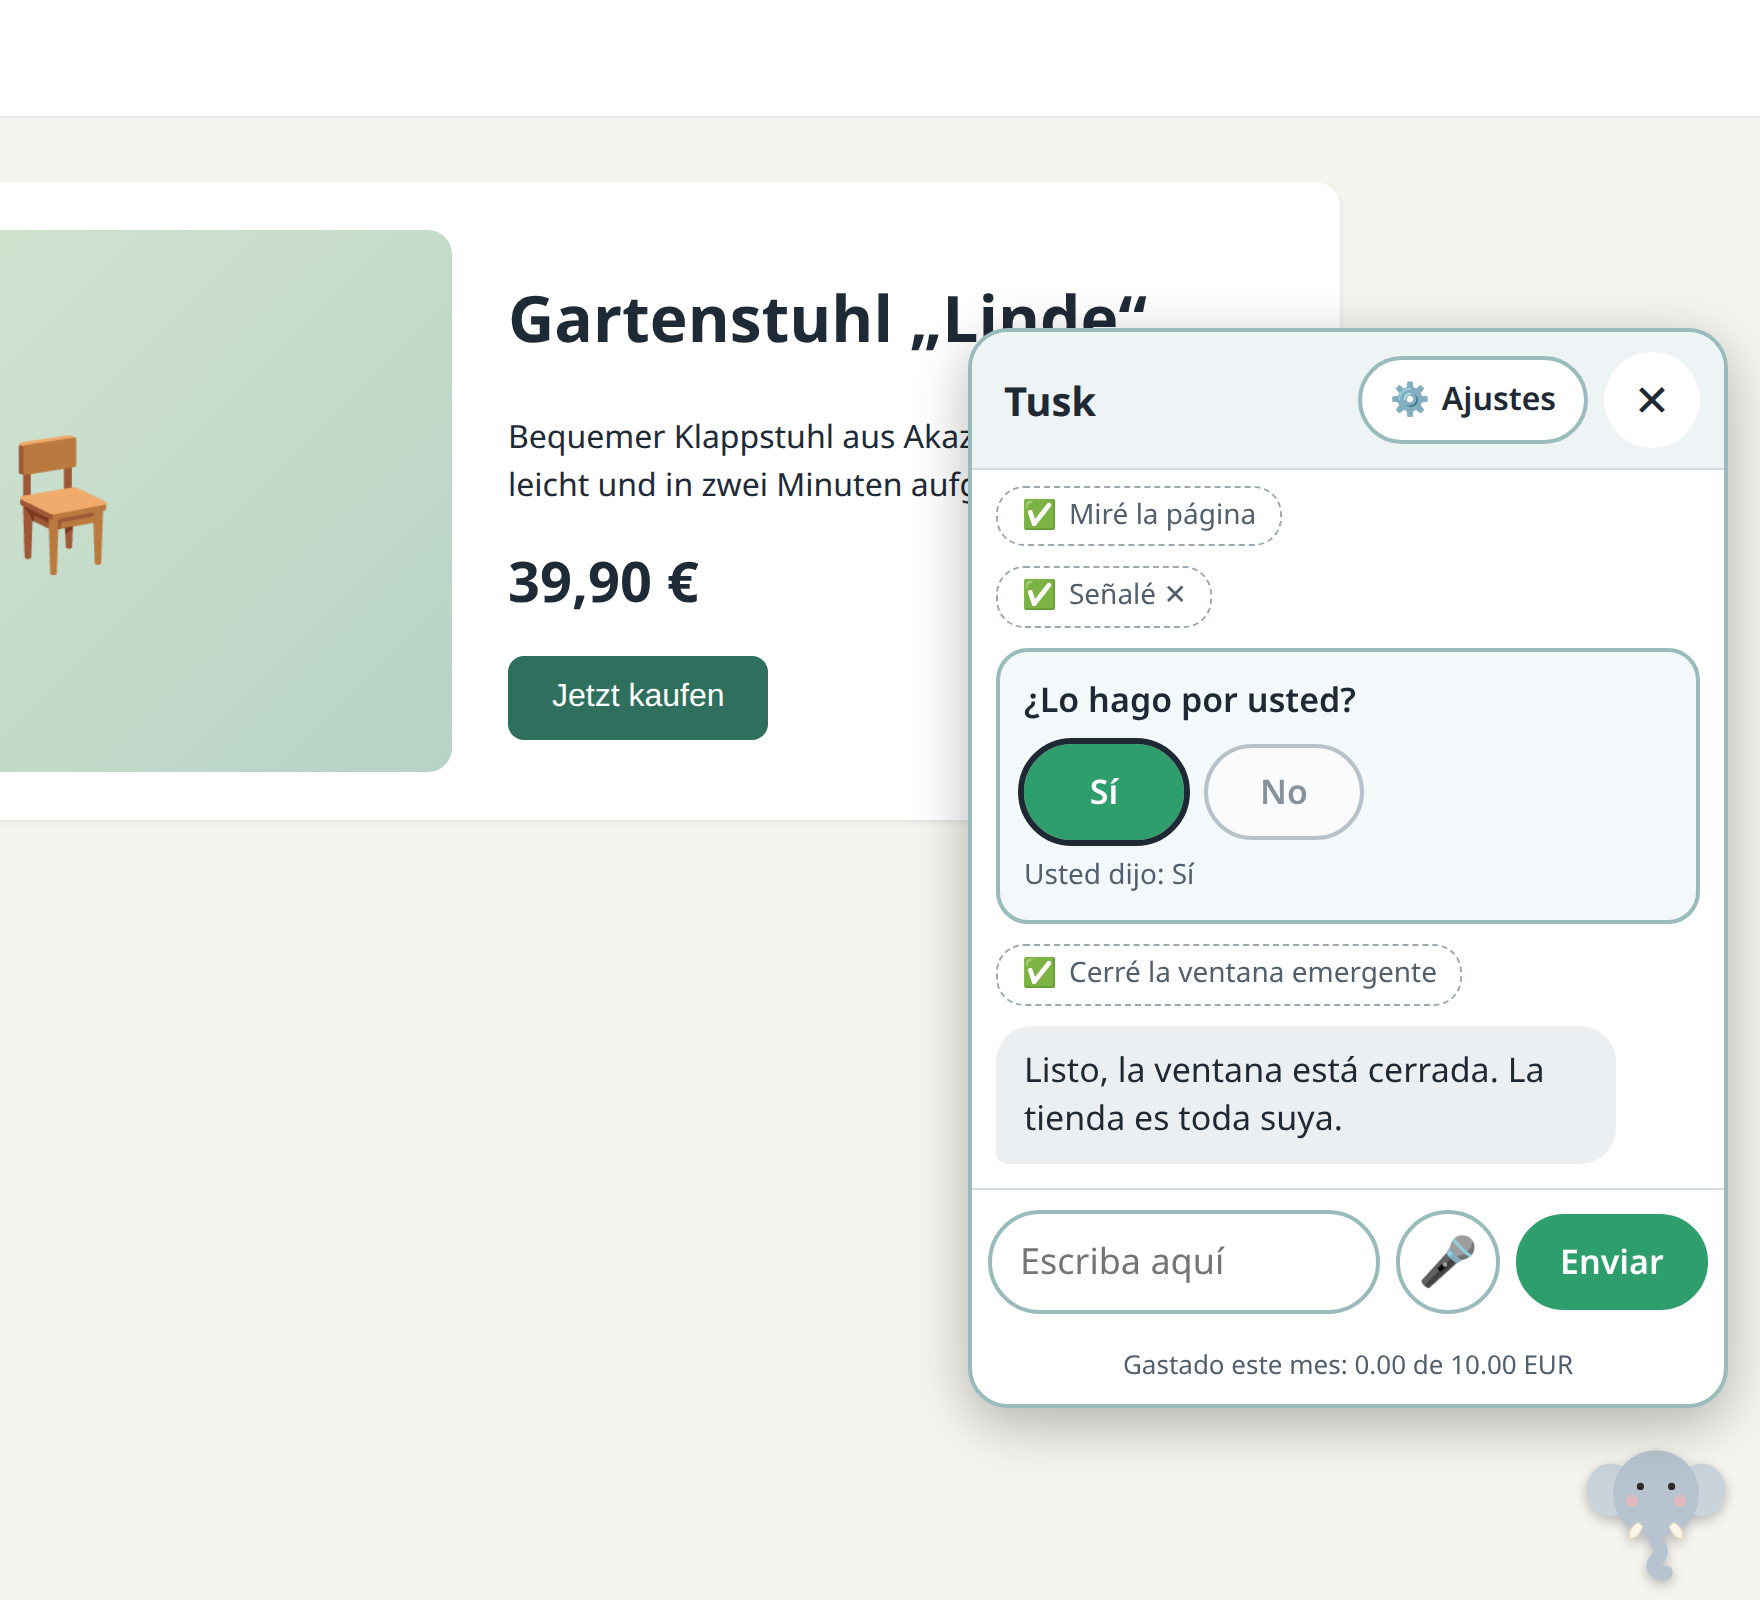
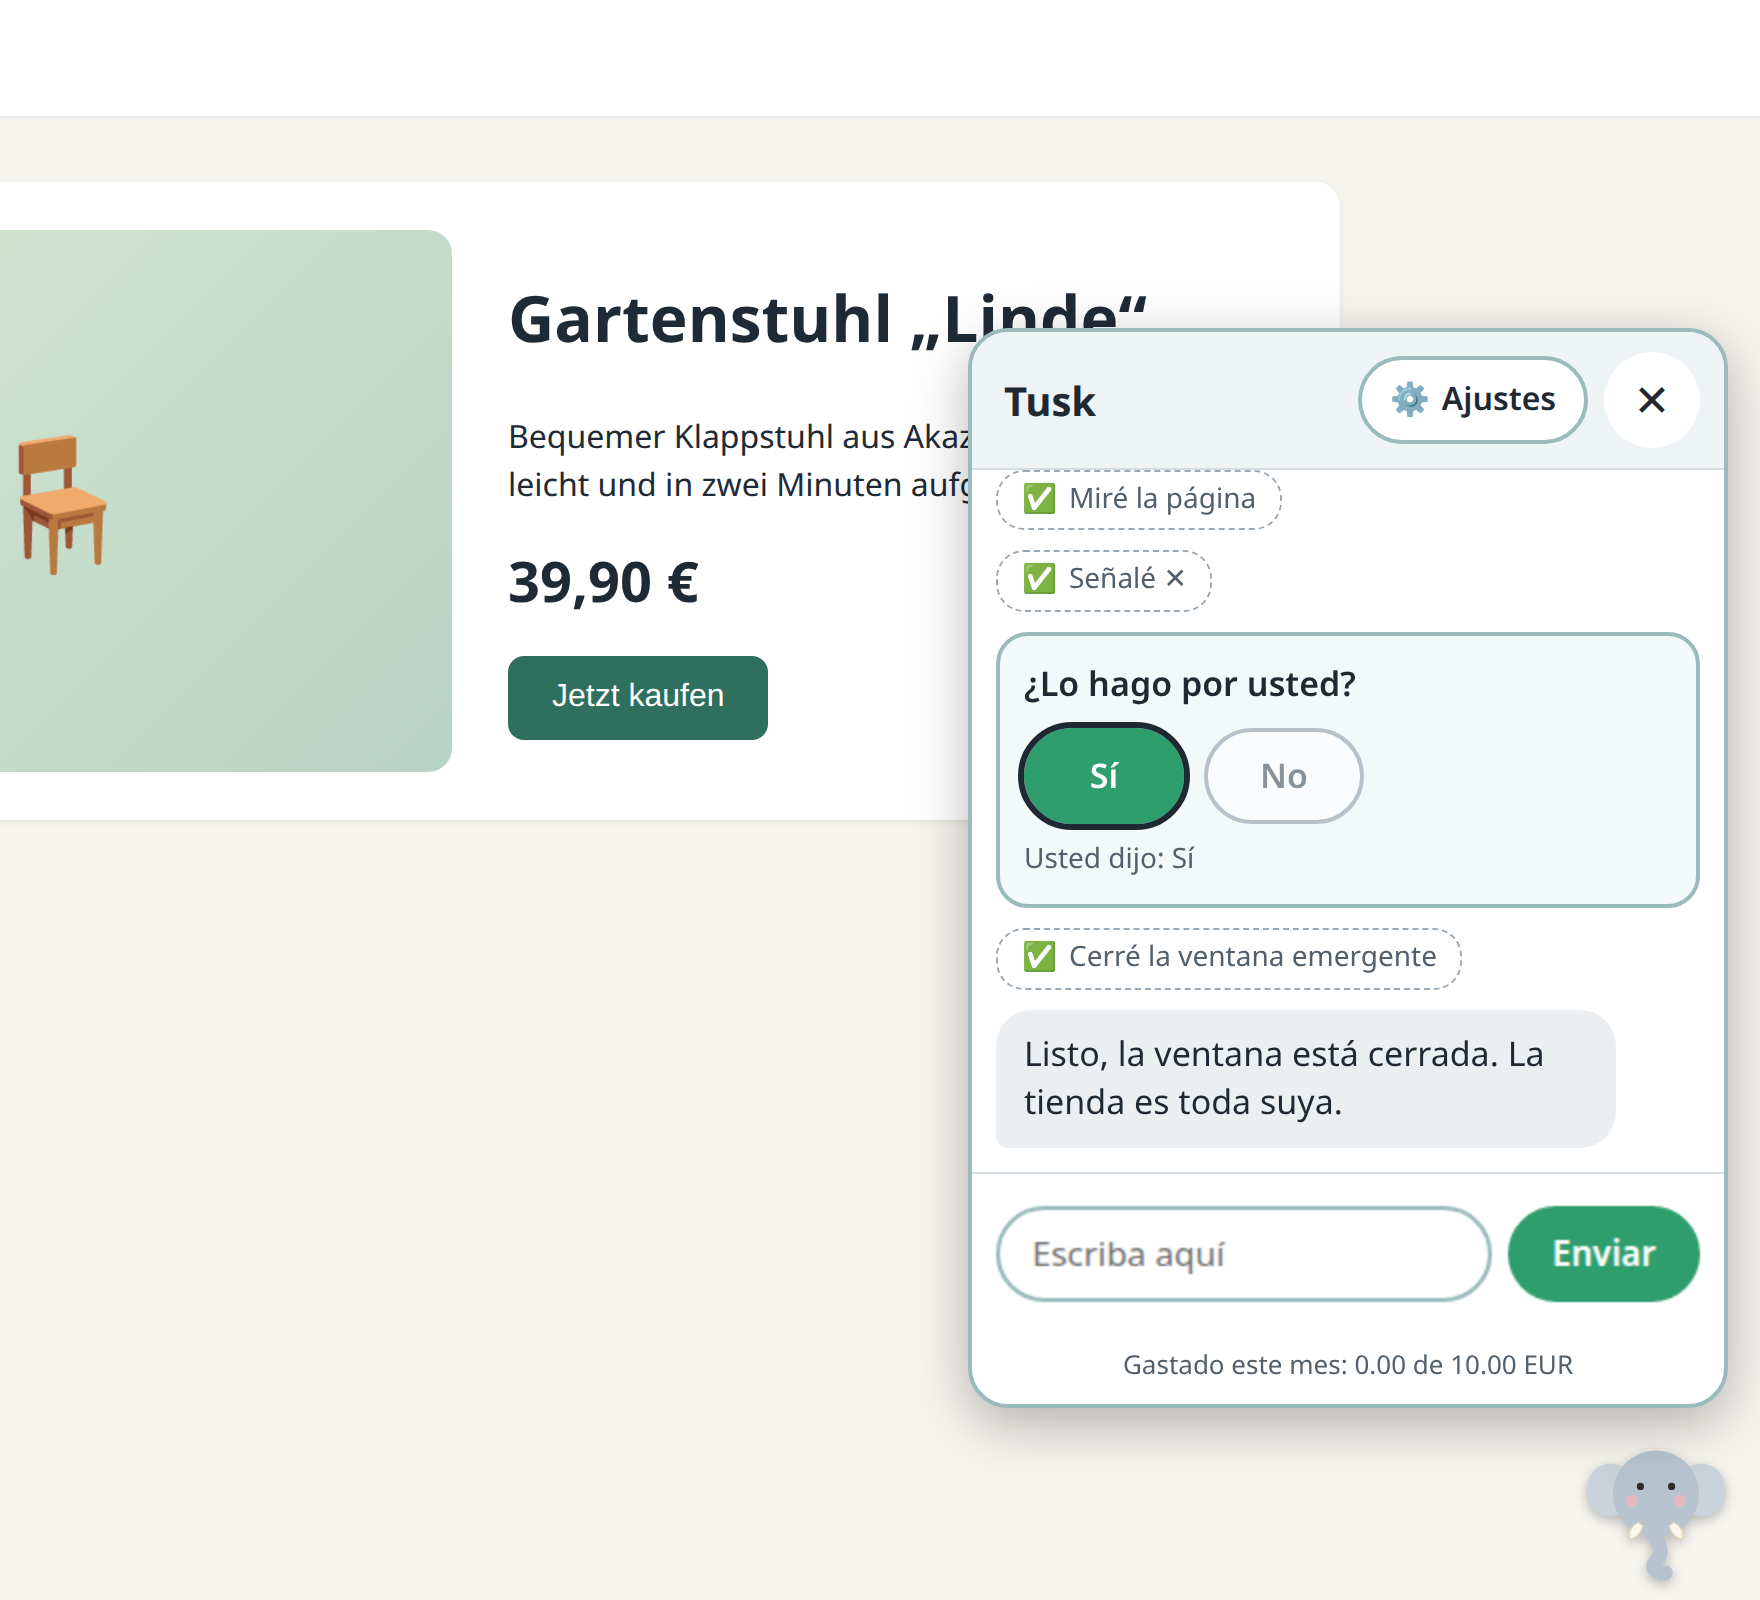
Chat typing box works on sites whose dialogs trap focus; speech input switched off
- Cookie consent dialogs on big video sites pull focus back and take letter keys as shortcuts, so
  the chat's text box (inside the page) received nothing. The typing box is now its own extension
  page in an iframe: the site cannot take its focus or keys, and the message goes from there
  straight to the agent. Checked on a demo page that mimics this and on the real site.
- Speaking to Tusk is switched off behind one flag (src/shared/features.ts) until it hears people
  reliably; the microphone button is hidden and its tests are skipped.

diff --git a/src/content/ui/index.ts b/src/content/ui/index.ts
@@ -3,13 +3,13 @@
 import type { ChatItem, ChatView, Language, MicPhase, Mode, Settings } from "../../shared/protocol";
 import { LANGUAGE_NAMES, t, type I18nKey } from "../../shared/i18n";
 import { CSS } from "./styles";
+import { FEATURES } from "../../shared/features";
 
 export { playground } from "./playground";
 
 type PublicSettings = Omit<Settings, "apiKey">;
 
 export interface OverlayCallbacks {
-  onSend(text: string): void;
   onAnswer(itemId: string, yes: boolean): void;
   onMicStart(): void;
   onMicStop(): void;
@@ -176,27 +176,21 @@ export function mountOverlay(cb: OverlayCallbacks, initial: PublicSettings): Ove
   label(chatClose, "close", "aria-label");
   chatClose.addEventListener("click", () => setPanel(null));
   const list = h("div", "list", { "aria-live": "polite" });
-  const input = h("input", "", { type: "text", autocomplete: "off", enterkeyhint: "send" });
-  label(input, "typeShort", "placeholder"); label(input, "typeHere", "aria-label");
-  const sendBtn = h("button", "btn yes send", { type: "button" });
-  label(sendBtn, "send");
+  // The typing box is an extension page in an iframe: websites with focus-trapping dialogs (cookie
+  // consent on video sites) or keyboard shortcuts cannot take its focus or swallow its keys, and the
+  // message goes from there straight to the agent, never through the page.
+  const composeUrl = typeof chrome !== "undefined" && chrome.runtime?.getURL ? chrome.runtime.getURL("pages/compose.html") : "about:blank";
+  const composeFrame = h("iframe", "compose-frame", { src: composeUrl, allowtransparency: "true" });
+  label(composeFrame, "typeHere", "title");
   const micBtn = h("button", "mic", { type: "button" }, "🎤");
   bind(() => micBtn.setAttribute("aria-label", t(lang(), listening ? "micStop" : "micStart")));
   const foot = h("div", "foot");
   chatEl.append(
     h("div", "head", undefined, chatTitle, h("div", "head-right", undefined, chatSettings, chatClose)),
     list,
-    h("div", "compose", undefined, input, micBtn, sendBtn),
+    h("div", "compose", undefined, composeFrame, ...(FEATURES.speechInput ? [micBtn] : [])),
     foot,
   );
-  const send = () => {
-    const text = input.value.trim();
-    if (!text) return;
-    input.value = "";
-    cb.onSend(text);
-  };
-  sendBtn.addEventListener("click", send);
-  input.addEventListener("keydown", (e) => { if (e.key === "Enter" && !e.isComposing) { e.preventDefault(); send(); } });
   micBtn.addEventListener("click", () => toggleMic());
 
   // settings panel
@@ -278,7 +272,7 @@ export function mountOverlay(cb: OverlayCallbacks, initial: PublicSettings): Ove
       if (bubble && (bubble.src === "chat" || bubble.src === "question" || bubble.src === "say")) hideBubble();
       renderChat();
       scrollDown();
-      input.focus({ preventScroll: true }); // the person just asked for the chat
+      composeFrame.focus(); // the person just asked for the chat; the frame hands focus to its text box
     }
     layout();
   }

diff --git a/demo/consent-dialog.html b/demo/consent-dialog.html
@@ -1,0 +1,44 @@
+<!doctype html>
+<html lang="de">
+<head>
+<meta charset="utf-8">
+<meta name="viewport" content="width=device-width, initial-scale=1">
+<title>Videoportal Musterstadt</title>
+<link rel="stylesheet" href="page-assets/demo.css">
+<style>
+  .backdrop { position: fixed; inset: 0; background: rgba(0,0,0,.45); z-index: 2201; }
+  .consent { position: fixed; left: 50%; top: 8%; transform: translateX(-50%); width: min(640px, 92vw); max-height: 84vh; overflow: auto;
+    background: #fff; border-radius: 12px; padding: 24px 28px; z-index: 2202; box-shadow: 0 10px 40px rgba(0,0,0,.3); }
+  .consent h1 { font-size: 24px; margin: 0 0 12px; }
+  .consent .row { display: flex; gap: 12px; margin-top: 18px; flex-wrap: wrap; }
+  .consent button { padding: 10px 18px; border-radius: 20px; border: 1px solid #999; background: #fff; font-size: 15px; }
+  .consent button.primary { background: #1a5fb4; color: #fff; border-color: #1a5fb4; }
+</style>
+</head>
+<body>
+<header class="site"><strong>Videoportal Musterstadt</strong></header>
+<main class="wrap"><h2>Lustige Katzenvideos</h2><p>Hier wären Videos zu sehen.</p></main>
+<div class="backdrop"></div>
+<div class="consent" id="consent" role="dialog" aria-modal="true" tabindex="-1">
+  <h1>Bevor Sie weitergehen</h1>
+  <p>Wir verwenden Cookies und Daten, um unsere Dienste bereitzustellen und Werbung anzuzeigen.</p>
+  <div class="row"><button id="reject">Alle ablehnen</button><button class="primary" id="accept">Alle akzeptieren</button><button id="more">Weitere Optionen</button></div>
+</div>
+<span class="demo-badge">Demo</span>
+<script>
+  // Behaves like the consent dialogs of big video sites: focus is pulled back into the dialog,
+  // and letter keys outside text fields are taken as keyboard shortcuts.
+  const consent = document.getElementById("consent");
+  document.addEventListener("focus", (e) => {
+    if (!consent.isConnected) return;
+    if (!e.composedPath().includes(consent)) { e.stopPropagation(); consent.focus(); }
+  }, true);
+  document.addEventListener("keydown", (e) => {
+    const t = e.target;
+    if (!/^(INPUT|TEXTAREA|SELECT)$/.test(t.tagName) && !t.isContentEditable) e.preventDefault();
+  }, true);
+  for (const id of ["reject", "accept"]) document.getElementById(id).onclick = () => { consent.remove(); document.querySelector(".backdrop").remove(); };
+  consent.focus();
+</script>
+</body>
+</html>

diff --git a/src/pages/compose.ts b/src/pages/compose.ts
@@ -1,0 +1,41 @@
+// The chat's typing box. It runs as an extension page inside an iframe in Tusk's chat, so the
+// website cannot steal its focus or its key presses, and it sends the message straight to the
+// agent through extension messaging: the website can neither read it nor fake it.
+import { t } from "../shared/i18n";
+import type { Language, ToAgent } from "../shared/protocol";
+import { SETTINGS_KEY } from "../shared/protocol";
+
+const form = document.getElementById("f") as HTMLFormElement;
+const input = document.getElementById("t") as HTMLInputElement;
+const button = document.getElementById("s") as HTMLButtonElement;
+
+function applyLanguage(lang: Language): void {
+  document.documentElement.lang = lang;
+  input.placeholder = t(lang, "typeShort");
+  input.setAttribute("aria-label", t(lang, "typeHere"));
+  button.textContent = t(lang, "send");
+}
+
+async function loadLanguage(): Promise<void> {
+  const stored = (await chrome.storage.local.get(SETTINGS_KEY))[SETTINGS_KEY] as { language?: Language } | undefined;
+  applyLanguage(stored?.language ?? "en");
+}
+
+form.addEventListener("submit", (e) => {
+  e.preventDefault();
+  const text = input.value.trim();
+  if (!text) return;
+  input.value = "";
+  const msg: ToAgent = { to: "agent", type: "user-input", text, via: "chat" };
+  void chrome.runtime.sendMessage(msg).catch(() => undefined);
+});
+
+// When Tusk opens the chat it focuses this frame; hand that on to the text box.
+window.addEventListener("focus", () => input.focus({ preventScroll: true }));
+
+chrome.storage.onChanged.addListener((changes, area) => {
+  if (area === "local" && changes[SETTINGS_KEY]) void loadLanguage();
+});
+
+void loadLanguage();
+document.body.dataset.ready = "1";

diff --git a/src/pages/compose.html b/src/pages/compose.html
@@ -1,0 +1,32 @@
+<!doctype html>
+<html lang="en">
+<head>
+<meta charset="utf-8">
+<meta name="viewport" content="width=device-width, initial-scale=1">
+<title>Little Tusk: type here</title>
+<!-- The chat's typing box, shown as an iframe inside Tusk's chat. Being its own page, it keeps
+     focus and key presses away from the website (dialogs that trap focus, keyboard shortcuts). -->
+<style>
+  html, body { margin: 0; padding: 0; background: transparent; overflow: hidden; }
+  body { font: 17px/1.3 system-ui, -apple-system, "Segoe UI", Roboto, "Noto Sans", sans-serif; color: #1f2933; }
+  form { display: flex; gap: 8px; align-items: center; padding: 4px; box-sizing: border-box; height: 100vh; }
+  input {
+    flex: 1; min-width: 0; min-height: 48px; box-sizing: border-box; padding: 8px 16px;
+    border: 2px solid #99bbbb; border-radius: 26px; background: #fff; color: inherit; font: inherit;
+  }
+  input:focus { outline: 3px solid #ffb703; outline-offset: 1px; border-color: #2f9e6d; }
+  button {
+    min-height: 48px; min-width: 80px; padding: 8px 20px; border-radius: 24px; border: 2px solid #2f9e6d;
+    background: #2f9e6d; color: #fff; font: inherit; font-weight: 600; cursor: pointer;
+  }
+  button:focus-visible { outline: 3px solid #ffb703; outline-offset: 2px; }
+</style>
+</head>
+<body>
+<form id="f" autocomplete="off">
+  <input id="t" type="text" enterkeyhint="send" spellcheck="true">
+  <button id="s" type="submit">Send</button>
+</form>
+<script type="module" src="./compose.ts"></script>
+</body>
+</html>

diff --git a/tests/unit/ui-overlay.test.ts b/tests/unit/ui-overlay.test.ts
@@ -16,7 +16,7 @@ beforeEach(() => {
     return root;
   });
   cb = {
-    onSend: vi.fn(), onAnswer: vi.fn(), onMicStart: vi.fn(), onMicStop: vi.fn(), onMicPause: vi.fn(), onNewTopic: vi.fn(),
+    onAnswer: vi.fn(), onMicStart: vi.fn(), onMicStop: vi.fn(), onMicPause: vi.fn(), onNewTopic: vi.fn(),
     onSettingsChange: vi.fn(), onTuck: vi.fn(), onOpenFamilySettings: vi.fn(), onAcceptOverlayHelp: vi.fn(),
   };
   ctrl = mountOverlay(cb, settings);
@@ -70,12 +70,11 @@ describe("overlay", () => {
     expect(root.querySelector(".q .res")!.textContent).toContain("Yes");
   });
 
-  it("sends on Enter and trims", () => {
+  it("the chat holds the typing box as its own frame, and no microphone while speech is off", () => {
     q<HTMLButtonElement>("button.tusk").click();
-    const input = q<HTMLInputElement>("input[type=text]");
-    input.value = "  help me ";
-    input.dispatchEvent(new KeyboardEvent("keydown", { key: "Enter", bubbles: true }));
-    expect(cb.onSend).toHaveBeenCalledWith("help me");
+    expect(root.querySelector(".compose iframe.compose-frame")).toBeTruthy();
+    expect(root.querySelector(".compose input")).toBeNull();
+    expect(root.querySelector(".compose .mic")).toBeNull();
   });
 
   it("switches language and reports setting changes", () => {

diff --git a/tests/e2e/focus-trap.spec.ts b/tests/e2e/focus-trap.spec.ts
@@ -1,0 +1,16 @@
+import { test, expect } from "./fixtures";
+
+test("typing to Tusk works on a page whose consent dialog traps focus and swallows keys", async ({ context, demoUrl, tusk }) => {
+  await tusk.configure();
+  await tusk.script([{ text: "I can read you." }]);
+  const page = await context.newPage();
+  await page.goto(`${demoUrl}/consent-dialog.html`);
+  await page.locator("button.tusk").click();
+  const box = page.frameLocator(".compose-frame").locator("#t");
+  await box.click(); // a real click, then real key presses, as a person would
+  await page.keyboard.type("hello kfm", { delay: 20 });
+  await expect(box).toHaveValue("hello kfm");
+  await page.keyboard.press("Enter");
+  await expect(page.locator(".msg.user")).toHaveText("hello kfm", { timeout: 15_000 });
+  await expect(page.locator(".msg.tusk", { hasText: "I can read you." })).toBeVisible({ timeout: 20_000 });
+});

diff --git a/src/content/ui/styles.ts b/src/content/ui/styles.ts
@@ -84,8 +84,7 @@ button.tusk.pointing .pose-point{display:block}
 .q .res{margin-top:8px;font-size:14px;color:#52606d}
 .think{align-self:flex-start;color:#52606d;font-size:15px;padding:4px 8px}
 .compose{display:flex;gap:8px;padding:10px 8px;border-top:1px solid #d3dde3;align-items:center}
-.compose input{flex:1;min-width:0;height:52px;border-radius:26px;border:2px solid #99bbbb;padding:0 14px;font-size:18px;background:#fff}
-.compose .send{min-width:76px}
+.compose-frame{flex:1;min-width:0;height:60px;border:0;background:transparent;color-scheme:normal}
 .mic{width:52px;height:52px;border-radius:50%;border:2px solid #99bbbb;background:#fff;font-size:24px;flex:none;padding:0}
 .mic.on{background:#2f9e6d;border-color:#2f9e6d}
 .foot{padding:6px 14px 10px;font-size:13px;color:#52606d;text-align:center}

diff --git a/tests/e2e/fixtures.ts b/tests/e2e/fixtures.ts
@@ -71,11 +71,12 @@ export const test = base.extend<{ extraArgs: string[]; context: BrowserContext; 
       script: (steps) => set("__faux_script", steps),
       openChat: async (page) => {
         await page.locator("button.tusk").click(); // Tusk always opens the chat
-        await page.locator(".panel input").first().waitFor();
+        await page.frameLocator(".compose-frame").locator("#t").waitFor(); // the typing box is its own frame
       },
       say: async (page, text) => {
-        await page.locator(".panel input").first().fill(text);
-        await page.locator(".panel .send").click();
+        const box = page.frameLocator(".compose-frame");
+        await box.locator("#t").fill(text);
+        await box.locator("#s").click();
       },
     };
     await use(helpers);

diff --git a/tests/e2e/agent.spec.ts b/tests/e2e/agent.spec.ts
@@ -15,7 +15,7 @@ test.describe("Tusk with a scripted model", () => {
     await page.goto(`${demoUrl}/shop.html`);
     await expect(page.locator("button.tusk")).toBeVisible();
     await page.locator("button.tusk").click(); // opens the chat directly
-    await expect(page.locator(".panel input").first()).toBeVisible();
+    await expect(page.frameLocator(".compose-frame").locator("#t")).toBeVisible();
     await expect(page.locator(".head-btn")).toContainText("Settings");
     await expect(popupOpen(page)).toBeVisible();
     await tusk.say(page, "the box won't close");

diff --git a/vite.config.ts b/vite.config.ts
@@ -22,6 +22,7 @@ export default defineConfig(({ mode }) => ({
         background: resolve(import.meta.dirname, "src/background/index.ts"),
         offscreen: resolve(import.meta.dirname, "src/pages/offscreen.html"),
         setup: resolve(import.meta.dirname, "src/pages/setup.html"),
+        compose: resolve(import.meta.dirname, "src/pages/compose.html"),
         // test-only page (uses the faux provider): only in the e2e build
         ...(mode === "e2e" ? { "storage-selftest": resolve(import.meta.dirname, "src/pages/storage-selftest.html") } : {}),
       },

diff --git a/tests/scenarios/scenarios.spec.ts b/tests/scenarios/scenarios.spec.ts
@@ -25,7 +25,7 @@ type Summary = { id: string; title: string; mode: string; live: boolean; passed:
 
 // ---------- driving the chat like a person ----------
 
-const chatOpen = (page: Page) => page.locator(".panel input").first().isVisible();
+const chatOpen = (page: Page) => page.locator(".compose-frame").isVisible();
 async function ensureChat(page: Page, tusk: { openChat(p: Page): Promise<void> }) {
   if (!(await chatOpen(page))) await tusk.openChat(page);
 }

diff --git a/tests/screenshots/screenshots.spec.ts b/tests/screenshots/screenshots.spec.ts
@@ -79,7 +79,7 @@ test("02 a click on Tusk opens the chat", async ({ context, demoUrl }) => {
   const page = await context.newPage();
   await openShopQuiet(page, demoUrl);
   await page.locator("button.tusk").click();
-  await expect(page.locator(".panel input").first()).toBeVisible();
+  await expect(page.frameLocator(".compose-frame").locator("#t")).toBeVisible();
   await settle(page, 600);
   await shot(page, "02-chat-open.png");
 });
